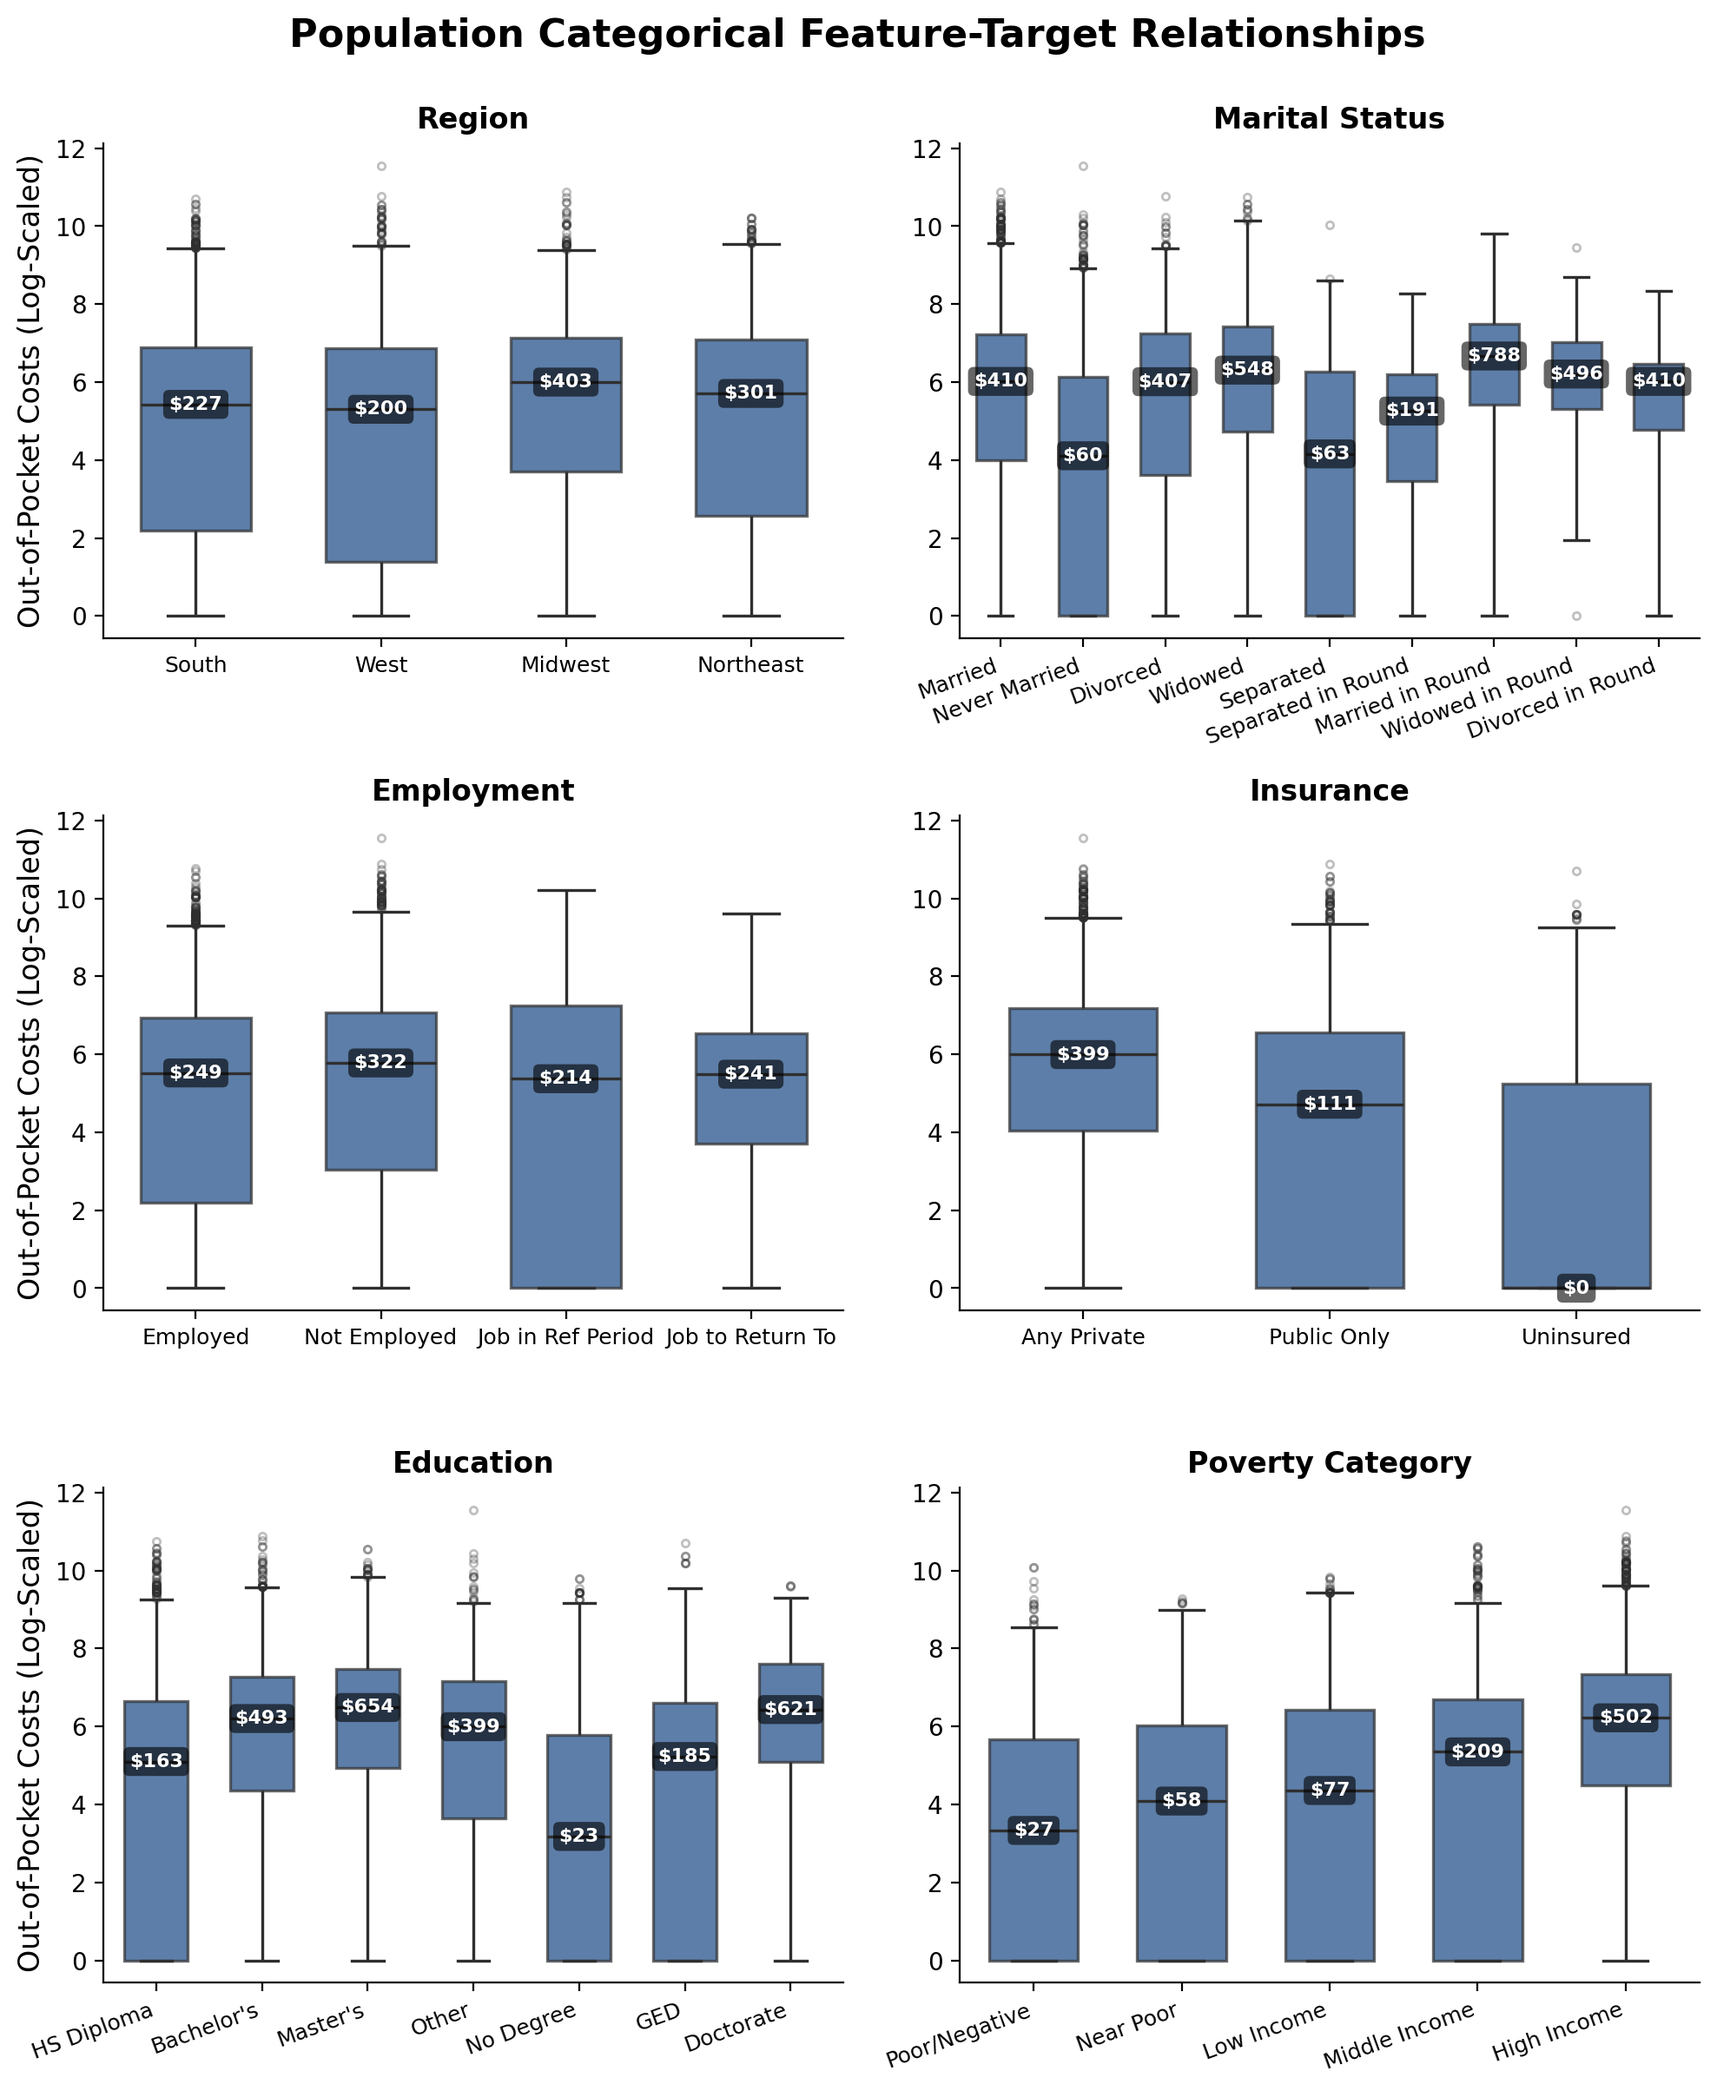
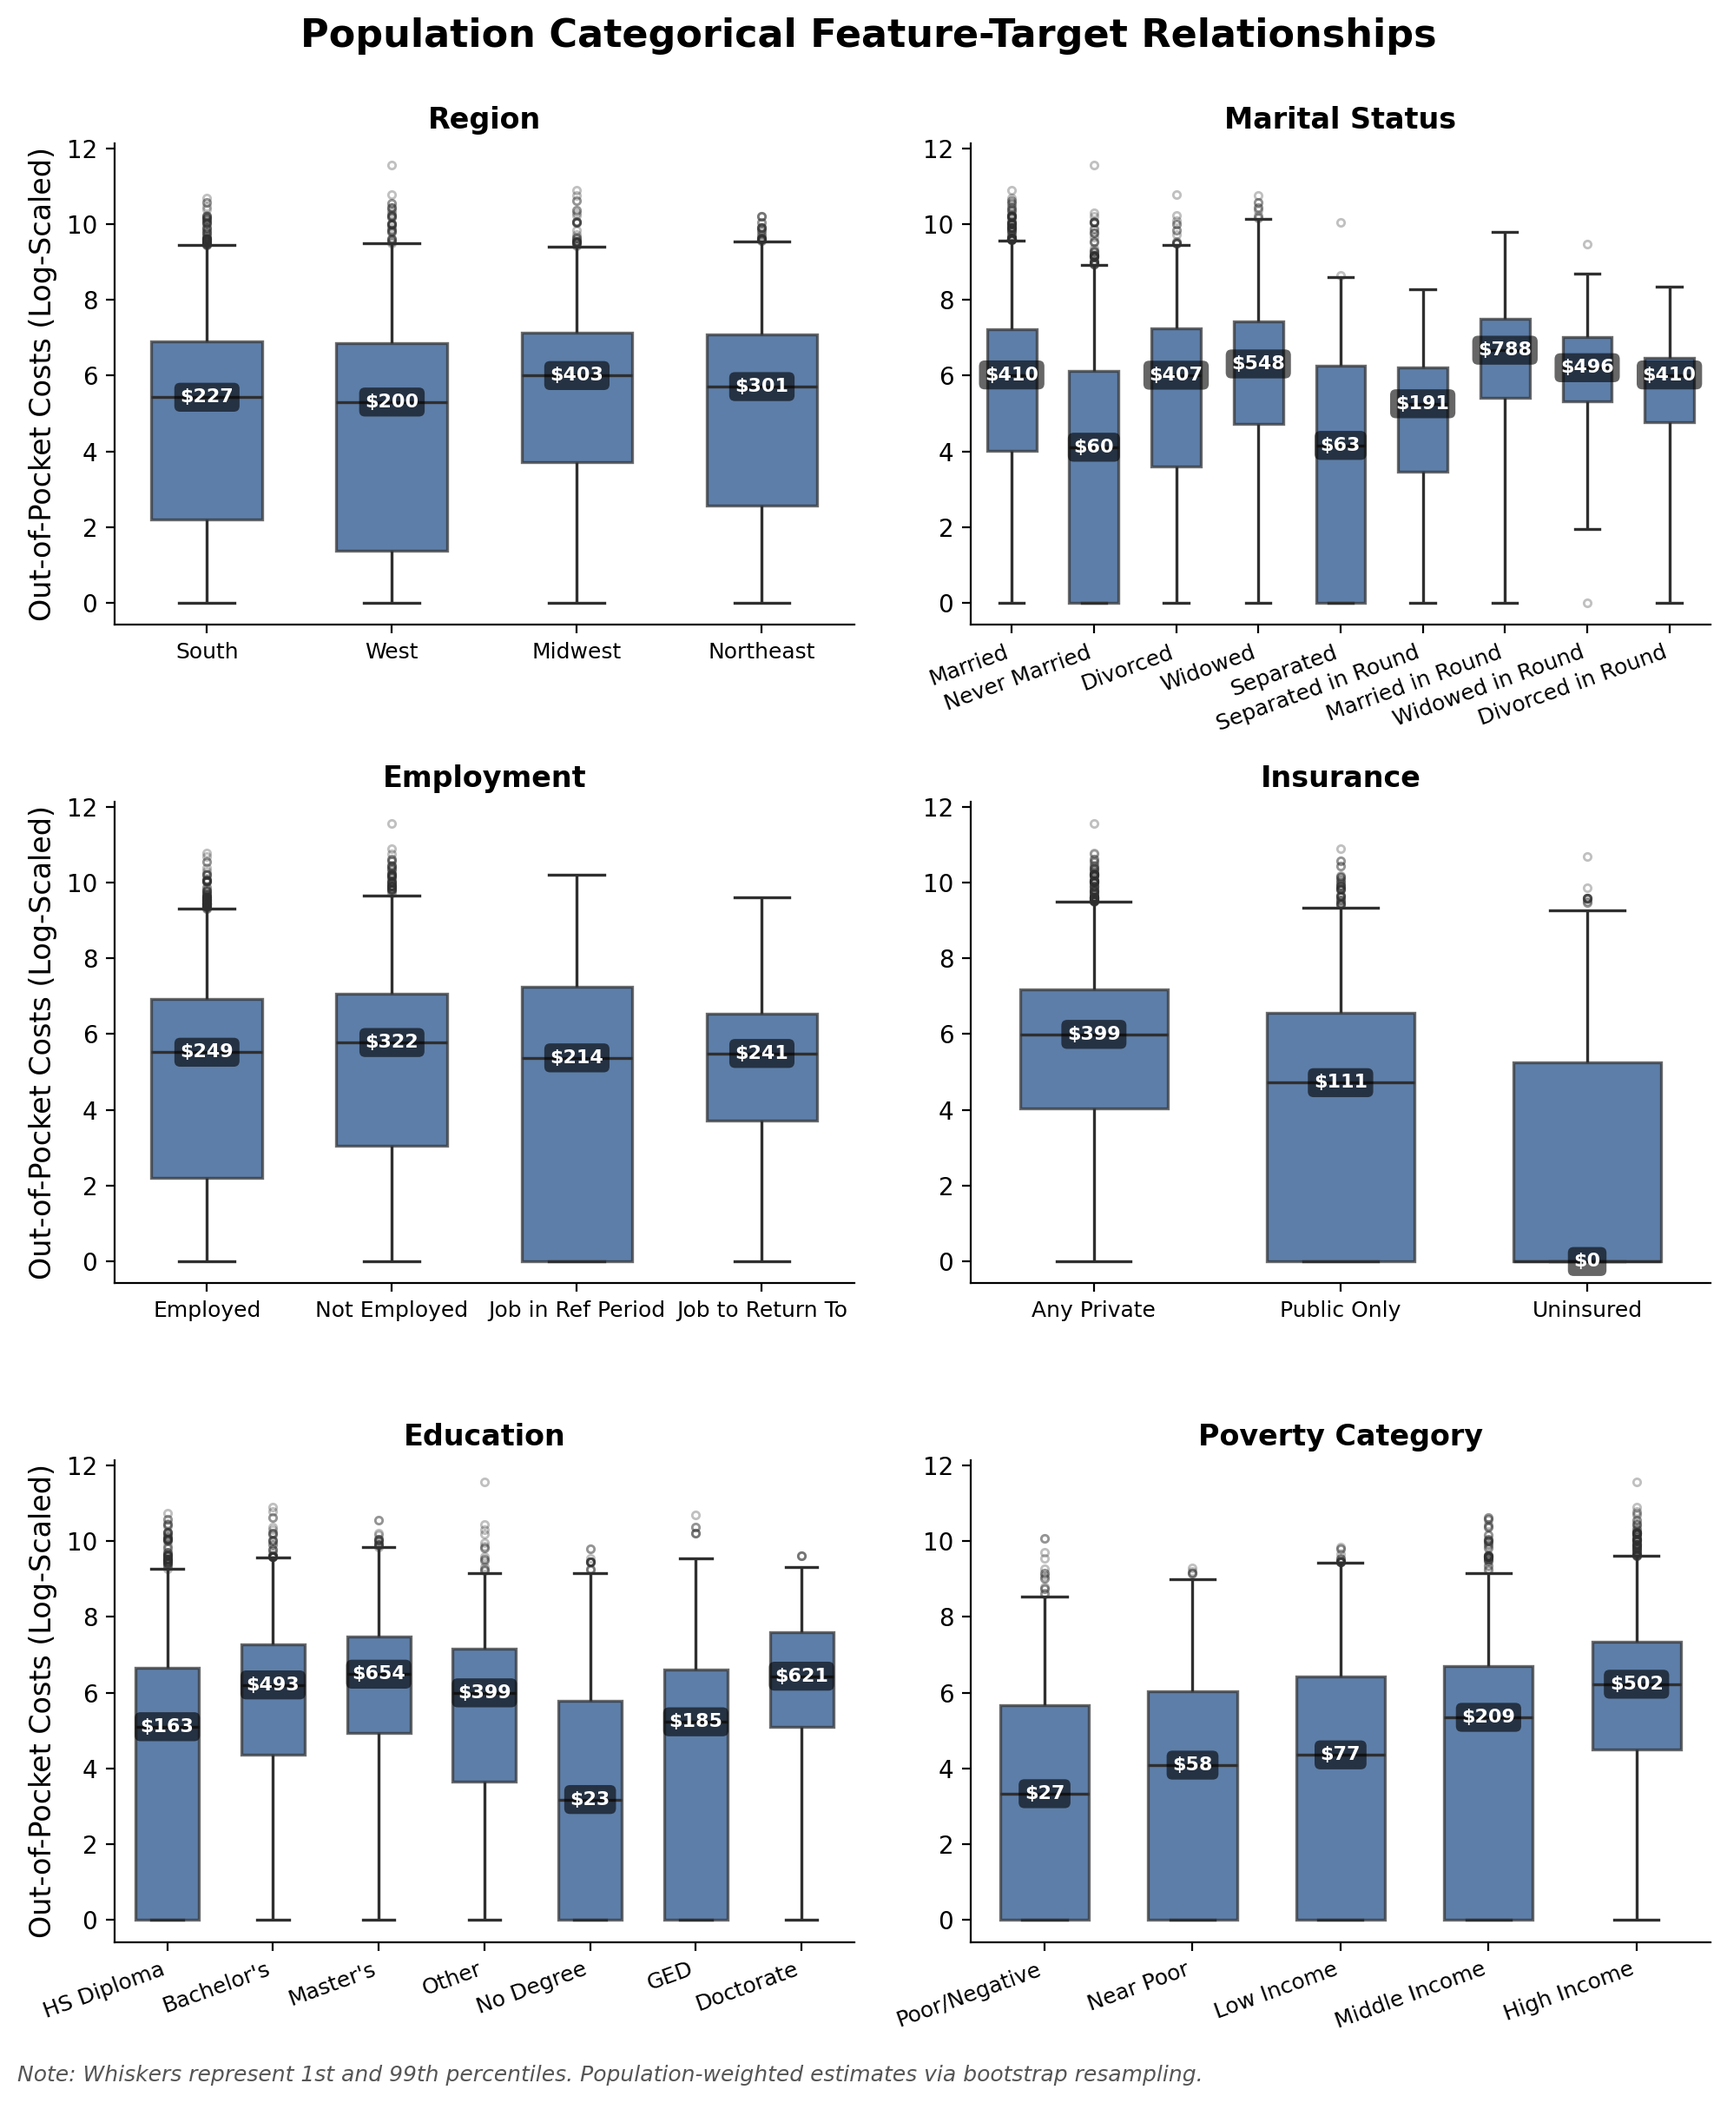
steyle(eda): add footnote and refine formatting for plot categorical feature-target relationships

diff --git a/notebooks/medical_cost_prediction.py b/notebooks/medical_cost_prediction.py
@@ -1725,7 +1725,6 @@ plot_numerical_feature_target_relationships(
 # <div style="background-color:#4e8ac8; color:white; padding:10px; border-radius:6px;">
 #     <h3 style="margin:0px">Categorical Features vs. Target</h3>
 # </div>
-#
 # <div style="background-color:#fff6e4; padding:15px; border:3px solid #f5ecda; border-radius:6px;">
 #     📌 Visualize the pairwise relationships between the target variable and each nominal and ordinal feature. 
 # </div>
@@ -1816,7 +1815,7 @@ def plot_categorical_feature_target_relationships(df, nominal_features, ordinal_
                 width=0.6, 
                 linewidth=1.2, 
                 whis=[1, 99],  # Use the 1st and 99th percentiles for the whiskers
-                boxprops=dict(alpha=0.7),
+                boxprops={"alpha": 0.7},
                 flierprops={"markersize": 3, "alpha": 0.3}
             )
         else:
@@ -1836,7 +1835,7 @@ def plot_categorical_feature_target_relationships(df, nominal_features, ordinal_
                     j, m_val, display_val, 
                     ha="center", va="center", 
                     fontsize=8, fontweight="bold", color="white",
-                    bbox=dict(facecolor='black', alpha=0.6, edgecolor='none', boxstyle='round,pad=0.3')
+                    bbox={"facecolor": "black", "alpha": 0.6, "edgecolor": "none", "boxstyle": "round,pad=0.3"}
                 )
            
         # Customize
@@ -1860,8 +1859,19 @@ def plot_categorical_feature_target_relationships(df, nominal_features, ordinal_
     super_title = f"{'Population' if weights else 'Sample'} Categorical Feature-Target Relationships"
     fig.suptitle(super_title, fontsize=16, fontweight="bold", y=1.0)
 
+    # Add footnote
+    footnote_parts = []
+    if plot_type == "box":
+        footnote_parts.append("Whiskers represent 1st and 99th percentiles.")  
+    if weights:
+        footnote_parts.append("Population-weighted estimates via bootstrap resampling.")
+    else:
+        footnote_parts.append("Sample estimates.")      
+    footnote = f"Note: {' '.join(footnote_parts)}"
+    plt.figtext(0.01, 0.01, footnote, ha="left", fontsize=9, style="italic", color="#555555")
+
     # Adjust layout 
-    plt.tight_layout()
+    plt.tight_layout(rect=[0, 0.02, 1, 1])
 
     # Save to file
     if save_to_file:
